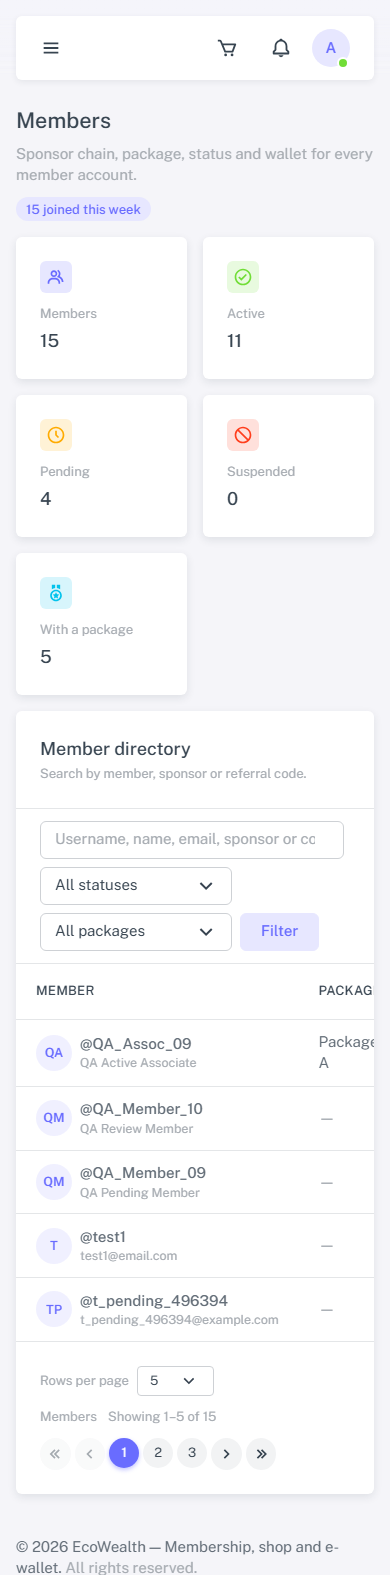
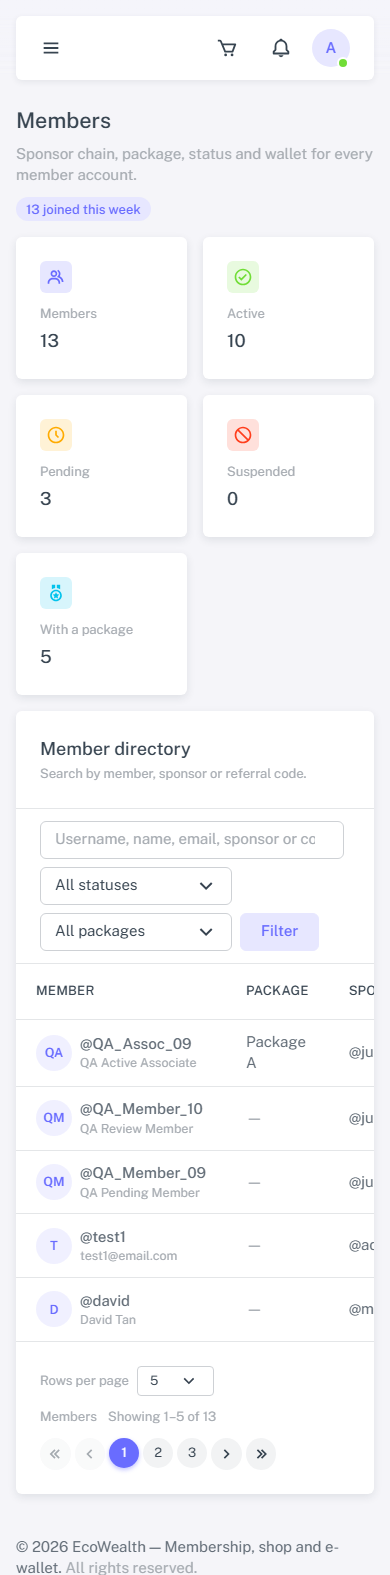
pagination: keep the table in view across size and page changes

diff --git a/system/public/assets/js/app.js b/system/public/assets/js/app.js
@@ -22,23 +22,110 @@
   });
 
   /*
-   * Rows-per-page selects (pagination footer) submit their own GET form
-   * on change, so the list reloads at the chosen size. Without
-   * JavaScript the same form carries a <noscript> Apply button.
+   * Pagination keeps the table in view (plan §3.6).
+   *
+   * A rows-per-page or page-number change reloads the document; without
+   * help the browser starts at the top and the table the user was
+   * looking at disappears. Before such a navigation we remember where
+   * the table's card sat in the viewport, and after the reload we put
+   * it back at the same spot. The key lives in sessionStorage, so it is
+   * scoped to this tab and cleared as soon as it is used.
    */
-  document.addEventListener('change', function (event) {
-    var select = event.target;
+  (function () {
+    var STORAGE_KEY = 'ecowealth:pagination-position';
 
-    if (!select || !select.matches || !select.matches('[data-per-page]')) {
-      return;
+    var read = function () {
+      try {
+        return JSON.parse(window.sessionStorage.getItem(STORAGE_KEY) || 'null');
+      } catch (error) {
+        return null;
+      }
+    };
+
+    var clear = function () {
+      try {
+        window.sessionStorage.removeItem(STORAGE_KEY);
+      } catch (error) {
+        /* Storage may be disabled; nothing to clean up. */
+      }
+    };
+
+    var remember = function (bar) {
+      if (!bar) {
+        return;
+      }
+
+      var card = bar.closest ? bar.closest('.card') : null;
+      var anchor = card || bar;
+
+      try {
+        window.sessionStorage.setItem(STORAGE_KEY, JSON.stringify({
+          id: bar.getAttribute('data-pagination') || '',
+          offset: anchor.getBoundingClientRect().top
+        }));
+      } catch (error) {
+        /* Private mode / storage disabled: fall back to the default jump. */
+      }
+    };
+
+    var restore = function () {
+      var saved = read();
+
+      if (!saved || !saved.id) {
+        return;
+      }
+
+      clear();
+
+      var bar = document.querySelector('[data-pagination="' + saved.id + '"]');
+
+      if (!bar) {
+        return;
+      }
+
+      var card = bar.closest ? bar.closest('.card') : null;
+      var anchor = card || bar;
+      var top = anchor.getBoundingClientRect().top + window.scrollY - (saved.offset || 0);
+
+      window.scrollTo(0, Math.max(0, top));
+    };
+
+    if (document.readyState === 'loading') {
+      document.addEventListener('DOMContentLoaded', restore);
+    } else {
+      restore();
     }
 
-    var form = select.form || (select.closest ? select.closest('form') : null);
+    /* A page-number or first/last link: remember before the document unloads. */
+    document.addEventListener('click', function (event) {
+      var link = event.target && event.target.closest
+        ? event.target.closest('.pagination-bar .pagination a')
+        : null;
 
-    if (form) {
-      form.submit();
-    }
-  });
+      if (!link) {
+        return;
+      }
+
+      remember(link.closest('[data-pagination]'));
+    });
+
+    /* A rows-per-page change submits its form: remember first. */
+    document.addEventListener('change', function (event) {
+      var select = event.target;
+
+      if (!select || !select.matches || !select.matches('[data-per-page]')) {
+        return;
+      }
+
+      remember(select.closest ? select.closest('[data-pagination]') : null);
+
+      var form = select.form || (select.closest ? select.closest('form') : null);
+
+      if (form) {
+        form.submit();
+      }
+    });
+  })();
 
   var input = document.getElementById('navbarQuickSearch');
 

diff --git a/system/app/views/partials/pagination.php b/system/app/views/partials/pagination.php
@@ -50,9 +50,15 @@ foreach ($_GET as $key => $value) {
     $hidden[$key] = (string) $value;
 }
 
-$select_id = 'perPage-' . substr(md5($pager_label . '|' . $page_param . '|' . $per_page_param), 0, 8);
+/* A stable key lets app.js keep the table card in view across the
+ * reload a page-size or page-number change triggers. */
+$pagination_key = substr(md5($pager_label . '|' . $page_param . '|' . $per_page_param), 0, 8);
+$select_id      = 'perPage-' . $pagination_key;
 ?>
-<div class="pagination-bar d-flex flex-wrap align-items-center justify-content-between gap-3 mt-4">
+<div
+  class="pagination-bar d-flex flex-wrap align-items-center justify-content-between gap-3 mt-4"
+  data-pagination="<?= e($pagination_key) ?>"
+>
   <div class="d-flex flex-wrap align-items-center gap-3">
 <?php if ($show_per_page && $pager->total > 0): ?>
     <form method="GET" action="<?= e($form_action) ?>" class="d-flex align-items-center gap-2" data-per-page-form>

diff --git a/system/tests/Cases/ViewTest.php b/system/tests/Cases/ViewTest.php
@@ -245,6 +245,7 @@ return [
         assert_contains('Rows per page', $links);
         assert_contains('name="per_page"', $links);
         assert_contains('data-per-page', $links);
+        assert_contains('data-pagination="', $links, 'a stable key lets the table stay in view');
         assert_contains('<option value="5"', $links);
         assert_contains('<option value="10"', $links);
         assert_contains('<option value="100"', $links);

diff --git a/docs/phase-log.md b/docs/phase-log.md
@@ -2019,6 +2019,47 @@ page two independent tables shared the same `?page=` parameter, so paging one mo
   list now paginate, so no record list grows without a footer. Dashboard snapshots stay top-N and link to
   their full, paginated list.
 
+---
+
+## Post-Phase 9 — Pagination keeps the table in view
+
+**Date:** 2026-11-07 · **Branch:** `feature/shop` · **Status:** complete · **Tests:** 394 PHP cases,
+131 smoke checks, 14 browser checks.
+
+### Problem
+
+Changing the rows-per-page size (or clicking a page number) reloads the document; the browser starts at
+the top, so the table the user was reading disappears below the fold. The page size was working, but the
+scroll position was not.
+
+### Changes
+
+| Area | Change |
+|---|---|
+| **Partial** | The pagination bar carries a stable `data-pagination="<key>"` derived from its label and page keys (unique per table, including the two lists on a wallet page). |
+| **`app.js`** | Before a rows-per-page change or a pagination-link click, the browser stores the table card's viewport offset in `sessionStorage` (`ecowealth:pagination-position`). On the next load the script finds the same bar, scrolls its `.card` back to that offset and clears the key. If the document is now shorter than the saved position, the browser's natural clamp keeps the footer visible instead of overshooting. |
+| **Fallbacks** | With JavaScript off the pages behave exactly as before (top of the page) — the size change still works through the `<noscript>` Apply button. If storage is unavailable (private mode), the script silently falls back to the default jump. |
+| **Tests** | `ViewTest` asserts the stable key; the browser harness scrolls the member table into view, changes the size and clicks page 2, and asserts the scroll position and the card's on-screen offset survive both reloads (14 checks). |
+
+### Verification
+
+| Check | Result |
+|---|---|
+| `php tests/run.php` | **394 / 394** |
+| `powershell -NoProfile -File tests/smoke.ps1` | **131 / 131** |
+| Browser harness (`tests/tmp/verify-pagination.mjs`) | **14 / 14** — `scrollBefore=219`, `scrollAfter=219`, card top 120 px after the size change and after page 2 |
+| Data check | `bin/wallet_reconcile.php` exits 0 |
+
+### Decisions
+
+- **The card is the anchor, not the footer.** Restoring the footer's own position would push the table
+  off-screen on short pages; restoring the whole table card keeps the header, the first rows and the
+  filter row where the user left them.
+- **`sessionStorage`, not the URL.** The position is a transient UI courtesy; it must not become part of
+  a bookmark or a shared link, and it is cleared the moment it is applied.
+- **The page still reloads.** This preserves server-rendered rows, filters and totals exactly as before;
+  no AJAX table library is introduced just to keep the scroll.
+
 
 
 

diff --git a/system/README.md b/system/README.md
@@ -698,6 +698,8 @@ job touches a cancelled or completed order (see `docs/cron.md`).
   `app/views/partials/pagination.php`: 10 rows by default, with a rows-per-page control
   offering 5, 10, 15 … 100 (`?per_page=N`) that keeps the active filters. A filter form
   carries `<?= per_page_hidden() ?>` so changing a filter never resets the chosen size.
+  The footer's change/link handlers remember where the table card sat in the viewport and
+  put it back after the reload, so changing the size never jumps the page to the top.
   Fixed-size lists (the catalogue card grid, dashboard snapshots) use `fromRequest()` /
   `new Paginator()` and pass `'show_per_page' => false` to the partial.
 
